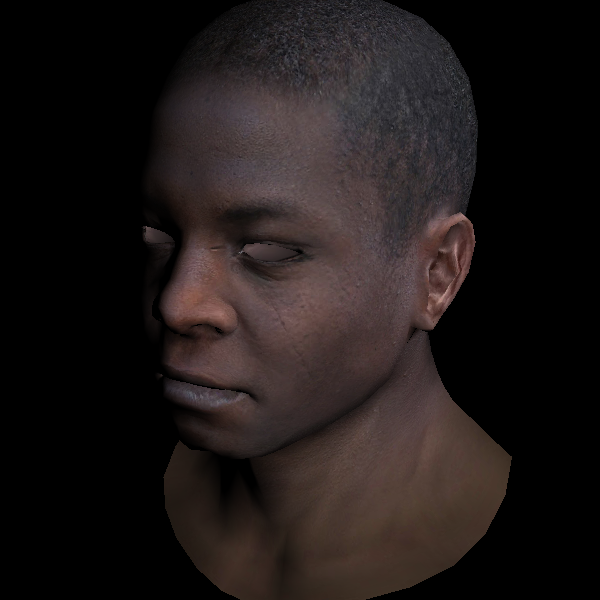
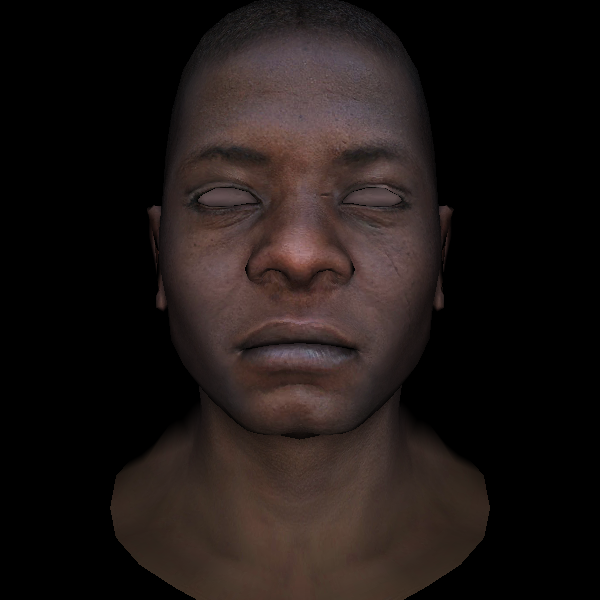
Frontal face

diff --git a/src/object.rs b/src/object.rs
@@ -60,16 +60,12 @@ impl Object {
     }
 
     fn set_pixels_in_buffer(&self, img: &mut RgbImage) {
-        let light_direction = Vector3::new(-2.0, -1.0, -1.0).normalize();
+        let light_direction = Vector3::new(0.0, -0.0, -1.0).normalize();
 
         let (width, height) = img.dimensions();
         let mut zbuffer: Vec<Vec<f32>> = vec![vec![0.0; height as usize]; width as usize];
 
         for face in self.model.faces() {
-            let average = (face.normals().0 + face.normals().1 + face.normals().2) / 3.0;
-            if average.dot(self.camera.view_dir()) < 0.0 {
-                continue;
-            }
             let mut triangle_3d = Triangle3d::from_vertices(face.vertices());
             self.camera.transform(&mut triangle_3d);
 

diff --git a/src/bin/main.rs b/src/bin/main.rs
@@ -10,7 +10,7 @@ fn main() {
     let texture = format!("data/{name}_diffuse.tga");
     let output = format!("output/{name}.png");
 
-    let origin = (-2.0, -1.0, -3.0);
+    let origin = (0.0, 0.0, -3.0);
     let focus = (0.0, 0.0, 0.0);
     let up = (0.0, 1.0, 0.0);
 
